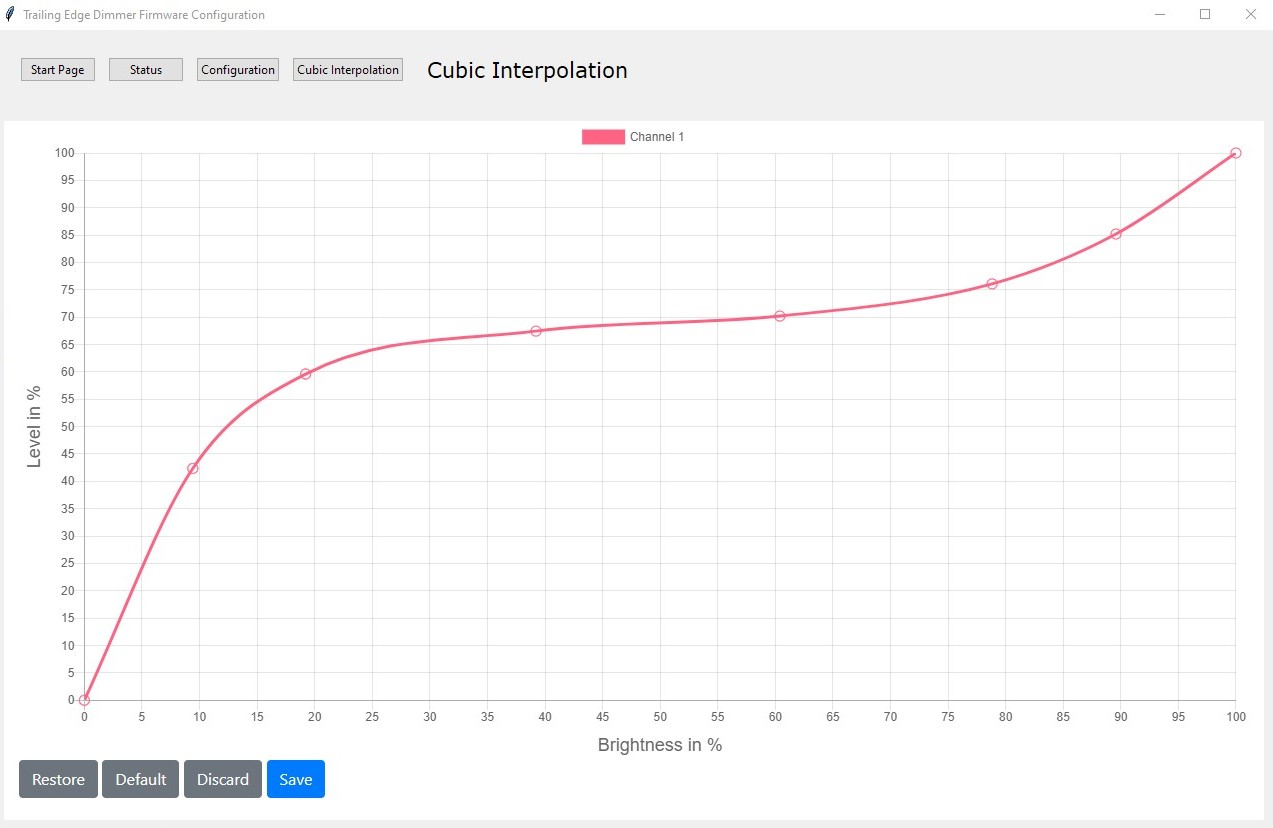
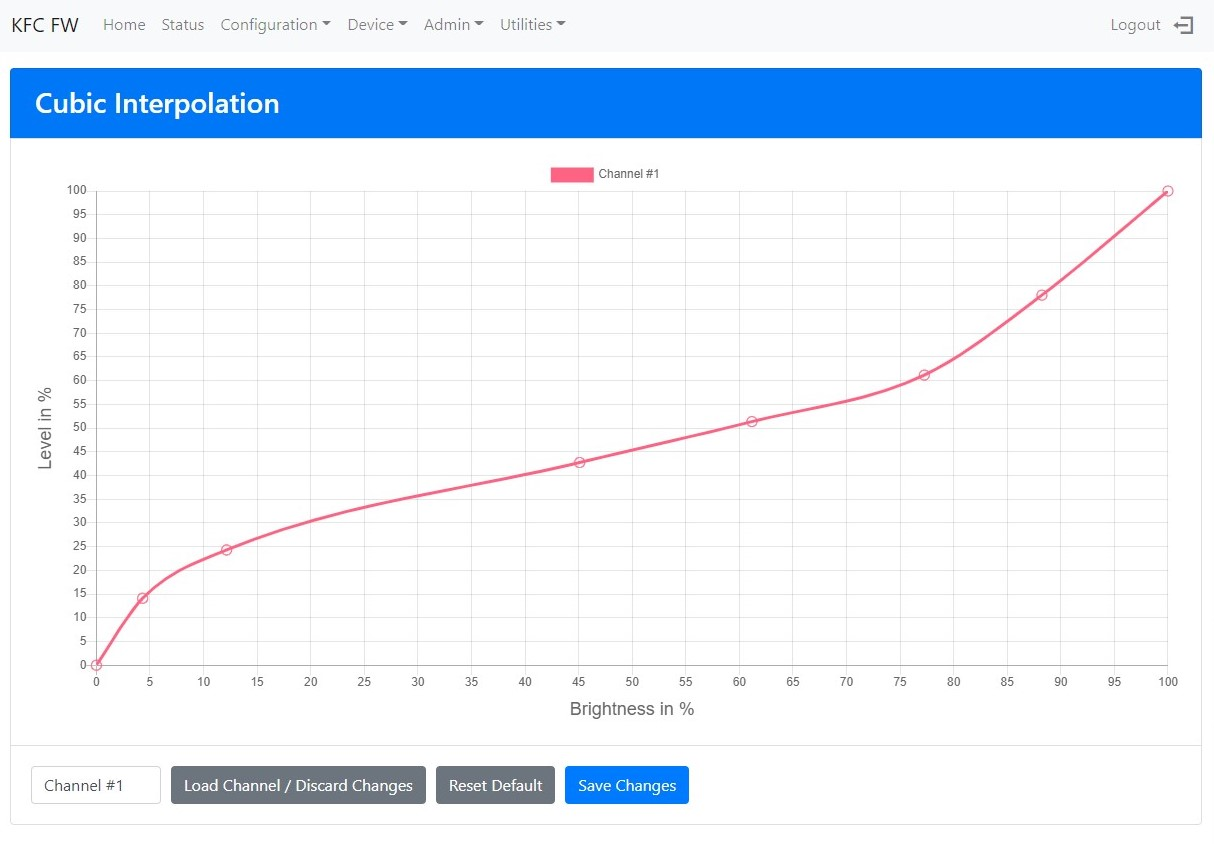
cubic interpolation

diff --git a/README.md b/README.md
@@ -50,6 +50,12 @@ The recent version of the KFC firmware supports programming the ATmega over the 
 
 ![KFC Firmware UI](https://raw.githubusercontent.com/sascha432/trailing_edge_dimmer/master/docs/images/kfcfw_ui2.jpg)
 
+## Linear brightness from 1-100%
+
+Since most LEDs do not dim linearly the dimmer supports to set up to 8 points which are interpolated to have smooth dimming over the entire range.
+
+![KFC Firmware UI](https://raw.githubusercontent.com/sascha432/trailing_edge_dimmer/master/docs/images/gui_cubic_curve.jpg)
+
 ## Zero crossing detection update
 
 I've improved the zero crossing detection by adding a RC filter, which improves the signal but still has a 0.5% error rate compared to 2.2% before.
